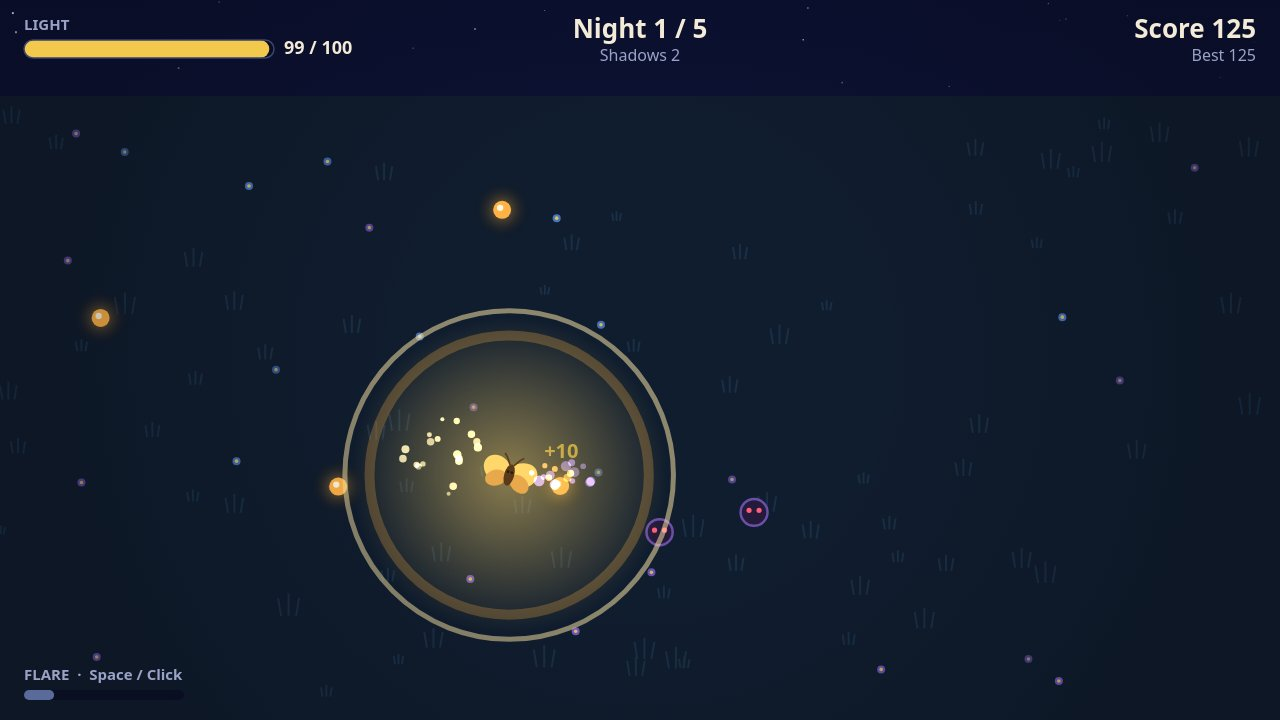
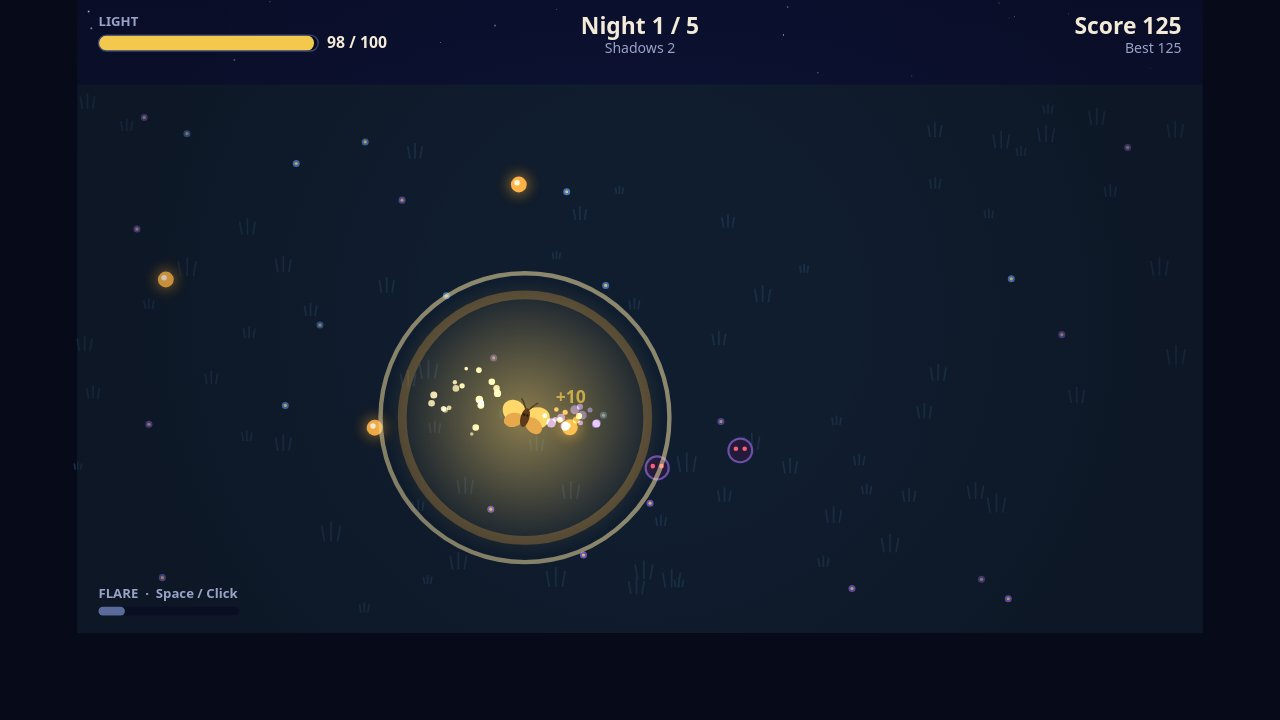
best-game-01: fix round-2 hunt — Thorn ram exploit, orb pool, night stall
Thorn Light no longer kills on a brush: burn needs 0.5s unbroken contact
and only builds when the moth is not steering into the shadow, so ramming
stops being the game (ram autopilot with thorns=1: 12/12 wins -> 0/12,
dies in ~10s with 0 kills; brave/cautious still win 11-12/12). Thorn kills
no longer skip the hit check. Orb pool 28 -> 48 and petals never lose
their slot to a full pool (petals lost 2 -> 0). A night that drags on
deepens: drain x3 and no more ambient embers, so the Night 1 stall
(passive 600s / score 1645) now dies in ~113s at score 280. Also: reset()
now resets emberTimer, orb score text honours Greedy Glow, light label
uses floor, flare bar uses the real cooldown max, win panel counts
moonpetals separately, holding Space flares like holding the mouse.
Screenshots re-rendered from the fixed code (seed 7).

diff --git a/game/src/world.js b/game/src/world.js
@@ -4,7 +4,7 @@
 // without the world knowing about them. Nothing here allocates after createWorld returns.
 
 import {
-  BLESSINGS, EMBER, ENEMY, FIELD, FLARE, LIGHT, MOONPETAL, PLAYER, POOL, SCORE,
+  BLESSINGS, EMBER, ENEMY, FIELD, FLARE, LIGHT, MOONPETAL, NIGHT, PLAYER, POOL, SCORE,
   WAVE_DEFS, WAVES,
 } from './config.js';
 
@@ -33,6 +33,13 @@ const DART_RECOVER = 3;
 /** Thorn Light: seconds between burn ticks on the same enemy (was every frame). */
 const THORN_COOLDOWN = 0.5;
 
+/**
+ * Thorn Light: seconds of unbroken touch before the first burn tick. A brush in
+ * passing does nothing, so flying straight through shadows no longer kills them
+ * for free — the blessing only burns shadows that cling to the moth.
+ */
+const THORN_BURN_DELAY = 0.5;
+
 function dist2(ax, ay, bx, by) {
   const dx = ax - bx;
   const dy = ay - by;
@@ -59,7 +66,7 @@ export function createWorld(random) {
     enemies.push({
       active: false, kind: KIND_WISP, x: 0, y: 0, vx: 0, vy: 0, hp: 1, maxHp: 1,
       radius: 14, speed: 90, wobble: 0, state: DART_CHASE, timer: 0, flash: 0,
-      lx: 0, ly: 0, thornCd: 0,
+      lx: 0, ly: 0, thornCd: 0, burn: 0,
     });
   }
   const orbs = [];
@@ -87,6 +94,7 @@ export function createWorld(random) {
     light: LIGHT.max, maxLight: LIGHT.max,
     score: 0, kills: 0, orbsCollected: 0, time: 0,
     wave: 1, waveState: 'fighting', spawnQueue: [], spawnTimer: 0, emberTimer: EMBER.interval,
+    waveTime: 0, waveLimit: 0, deepened: false, petalsCollected: 0,
     blessings: {}, offered: [], flareCooldown: 0, shake: 0, flareRing: 0, flareRadius: 0,
     dawn: 0, charmUsed: false, victory: false, over: false, lastKillKind: -1,
   };
@@ -172,10 +180,18 @@ export function createWorld(random) {
     e.timer = 0;
     e.flash = 0;
     e.thornCd = 0;
+    e.burn = 0;
   }
 
   function spawnOrb(kind, x, y) {
-    const o = freeOrb();
+    let o = freeOrb();
+    if (!o && kind === KIND_PETAL) {
+      // Moonpetals are progression — only six a game. A full orb pool must never
+      // eat one: reuse an ember instead (embers are plentiful, petals are not).
+      for (let i = 0; i < orbs.length; i += 1) {
+        if (orbs[i].active && orbs[i].kind === KIND_EMBER) { o = orbs[i]; break; }
+      }
+    }
     if (!o) return;
     o.active = true;
     o.kind = kind;
@@ -264,6 +280,9 @@ export function createWorld(random) {
       state.spawnQueue[j] = tmp;
     }
     state.spawnTimer = 0.8;
+    state.waveTime = 0;
+    state.deepened = false;
+    state.waveLimit = NIGHT.baseTime + NIGHT.perShadow * state.spawnQueue.length;
   }
 
   function offerBlessings() {
@@ -313,7 +332,9 @@ export function createWorld(random) {
     state.score = 0;
     state.kills = 0;
     state.orbsCollected = 0;
+    state.petalsCollected = 0;
     state.time = 0;
+    state.emberTimer = EMBER.interval;
     state.blessings = {};
     state.offered = [];
     state.flareCooldown = 0;
@@ -358,7 +379,8 @@ export function createWorld(random) {
     player.flap += dt * (player.moving ? 26 : 12);
 
     if (!harmless && !state.over && !state.victory) {
-      state.light -= (LIGHT.drain + LIGHT.drainPerWave * (state.wave - 1)) * dt;
+      const drainMult = state.deepened ? NIGHT.deepenDrainMult : 1;
+      state.light -= (LIGHT.drain + LIGHT.drainPerWave * (state.wave - 1)) * drainMult * dt;
       if (state.light <= 0) {
         state.light = 0;
         if ((state.blessings.charm ?? 0) > 0 && !state.charmUsed) {
@@ -391,8 +413,8 @@ export function createWorld(random) {
       }
     }
 
-    // Ambient embers drift in while the moth flies.
-    if (state.waveState !== 'blessing') {
+    // Ambient embers drift in while the moth flies — never once the dark deepens.
+    if (state.waveState !== 'blessing' && !state.deepened) {
       state.emberTimer -= dt;
       if (state.emberTimer <= 0) {
         let ambient = 0;
@@ -401,6 +423,16 @@ export function createWorld(random) {
           spawnOrb(KIND_EMBER, 60 + random() * (FIELD.width - 120), 60 + random() * (FIELD.height - 120));
         }
         state.emberTimer = EMBER.interval;
+      }
+    }
+
+    // The night's clock: linger too long and the dark deepens — the drain
+    // triples and no more ambient embers drift in, so stalling starves.
+    if (!harmless && state.waveState === 'fighting' && !state.over && !state.victory) {
+      state.waveTime += dt;
+      if (!state.deepened && state.waveTime >= state.waveLimit) {
+        state.deepened = true;
+        floatText(player.x, player.y - 30, 'The dark deepens!', '#ff5d7a', 28);
       }
     }
 
@@ -461,15 +493,32 @@ export function createWorld(random) {
 
       if (harmless || state.over || state.victory) continue;
       if (d < e.radius + player.radius) {
-        if ((state.blessings.thorns ?? 0) > 0 && e.thornCd <= 0) {
-          e.thornCd = THORN_COOLDOWN;
-          e.hp -= 1;
-          e.flash = 0.15;
-          burst(e.x, e.y, '#ffd76a', 6, 140, 3);
-          if (e.hp <= 0) {
-            killEnemy(e, true);
-            events |= EVENT_KILL;
-            continue;
+        if ((state.blessings.thorns ?? 0) > 0) {
+          // Thorn Light burns only shadows that catch the moth. Steering into a
+          // shadow is the moth's attack, not the shadow's, so no burn builds
+          // while the moth charges — that is what stops ramming from being
+          // the game. A shadow that clings to a moth standing its ground, or
+          // fleeing, still burns.
+          const nx = -dx / d;
+          const ny = -dy / d;
+          const toward = dir.x * nx + dir.y * ny;
+          if (toward <= 0) {
+            e.burn += dt;
+            if (e.burn >= THORN_BURN_DELAY && e.thornCd <= 0) {
+              e.thornCd = THORN_COOLDOWN;
+              e.burn = 0;
+              e.hp -= 1;
+              e.flash = 0.15;
+              burst(e.x, e.y, '#ffd76a', 6, 140, 3);
+              if (e.hp <= 0) {
+                killEnemy(e, true);
+                events |= EVENT_KILL;
+                // No `continue` here: the touch that lit the shadow still lands
+                // below, so a thorn kill is never a free kill.
+              }
+            }
+          } else {
+            e.burn = 0;
           }
         }
         if (player.invulnerable === 0) {
@@ -494,6 +543,9 @@ export function createWorld(random) {
             }
           }
         }
+      } else {
+        // Out of touch the burn meter cools: only unbroken contact ignites.
+        e.burn = 0;
       }
     }
 
@@ -520,10 +572,11 @@ export function createWorld(random) {
         o.active = false;
         state.orbsCollected += 1;
         const isPetal = o.kind === KIND_PETAL;
+        if (isPetal) state.petalsCollected += 1;
         const def = isPetal ? MOONPETAL : EMBER;
         state.light = Math.min(state.maxLight, state.light + def.light);
         addScore(def.score);
-        floatText(o.x, o.y - 12, `+${def.score}`, isPetal ? '#c9b8ff' : '#f2c94c', isPetal ? 24 : 18);
+        floatText(o.x, o.y - 12, `+${Math.round(def.score * (1 + 0.5 * (state.blessings.greed ?? 0)))}`, isPetal ? '#c9b8ff' : '#f2c94c', isPetal ? 24 : 18);
         burst(o.x, o.y, isPetal ? '#c9b8ff' : '#ffb347', isPetal ? 14 : 8, 130, 3);
         events |= isPetal ? EVENT_PETAL : EVENT_ORB;
       }

diff --git a/game/src/render.js b/game/src/render.js
@@ -5,7 +5,7 @@
 // the screen grow. All animation reads the world's own time, never the wall clock, so a
 // staged scene always paints the same frame.
 
-import { BLESSINGS, FIELD, FONT, LIGHT, PALETTE, WAVES } from './config.js';
+import { BLESSINGS, FIELD, FLARE, FONT, LIGHT, PALETTE, WAVES } from './config.js';
 import { KIND_BRUTE, KIND_DART, KIND_EMBER, KIND_PETAL, KIND_WISP } from './world.js';
 
 export const SCREEN_TITLE = 'title';
@@ -361,7 +361,7 @@ export function createRenderer(canvas) {
     context.lineWidth = 1.5;
     roundRect(barX, barY, barW, 18, 9);
     context.stroke();
-    text(lightLabel(`${Math.ceil(state.light)} / ${state.maxLight}`), barX + barW + 10, 40, 18, PALETTE.text, 'left', '700');
+    text(lightLabel(`${Math.floor(state.light)} / ${state.maxLight}`), barX + barW + 10, 40, 18, PALETTE.text, 'left', '700');
     // Wave and shadows, top centre.
     text(waveLabel(`${state.wave} / ${WAVES}`), FIELD.width / 2, 18, 26, PALETTE.text, 'center', '700');
     let shadows = state.spawnQueue.length;
@@ -372,7 +372,8 @@ export function createRenderer(canvas) {
     text(`Best ${state.best ?? 0}`, FIELD.width - 24, 48, 16, PALETTE.muted, 'right');
     // Flare cooldown, bottom left.
     text('FLARE  ·  Space / Click', 24, FIELD.height - 52, 15, PALETTE.muted, 'left', '700');
-    const cdFrac = 1 - state.flareCooldown / 1.15;
+    const cdMax = FLARE.cooldown * (1 - FLARE.cooldownPerBlessing * (state.blessings.quick ?? 0));
+    const cdFrac = 1 - state.flareCooldown / cdMax;
     context.fillStyle = '#0a0e22';
     roundRect(24, FIELD.height - 30, 160, 10, 5);
     context.fill();
@@ -507,7 +508,7 @@ export function createRenderer(canvas) {
     } else if (screen === SCREEN_OVER) {
       drawPanel('The Light Fades', [`Score ${state.score}`, `Best ${best}`, `Reached Night ${state.wave}  ·  ${state.kills} shadows scattered`], 'Press Space or click to fly again');
     } else if (screen === SCREEN_WIN) {
-      drawPanel('Dawn Breaks', [`Score ${state.score}`, `Best ${best}`, `All ${WAVES} nights survived`, `${state.kills} shadows scattered  ·  ${state.orbsCollected} embers gathered`], 'Press Space or click to fly again');
+      drawPanel('Dawn Breaks', [`Score ${state.score}`, `Best ${best}`, `All ${WAVES} nights survived`, `${state.kills} shadows scattered  ·  ${state.orbsCollected} orbs gathered, ${state.petalsCollected ?? 0} moonpetals`], 'Press Space or click to fly again');
     } else if (screen === SCREEN_PLAY && state.time < 6 && state.wave === 1) {
       text('Gather the glowing embers — your light is draining', FIELD.width / 2, 120, 20, PALETTE.text, 'center');
     }

diff --git a/game/src/input.js b/game/src/input.js
@@ -28,6 +28,7 @@ export function createInput(target) {
   let pointerX = 0;
   let pointerY = 0;
   let pointerDown = false;
+  let confirmHeld = false;
 
   window.addEventListener('keydown', (event) => {
     if (LEFT.has(event.code)) left = true;
@@ -35,6 +36,7 @@ export function createInput(target) {
     else if (UP.has(event.code)) up = true;
     else if (DOWN.has(event.code)) down = true;
     else if (CONFIRM.has(event.code)) {
+      confirmHeld = true;
       if (!event.repeat) actions |= ACTION_CONFIRM;
     } else if (PAUSE.has(event.code)) {
       if (!event.repeat) actions |= ACTION_PAUSE;
@@ -50,6 +52,7 @@ export function createInput(target) {
     else if (RIGHT.has(event.code)) right = false;
     else if (UP.has(event.code)) up = false;
     else if (DOWN.has(event.code)) down = false;
+    else if (CONFIRM.has(event.code)) confirmHeld = false;
   });
   // A key released while the tab is hidden never sends keyup: let go of everything on blur.
   window.addEventListener('blur', () => {
@@ -57,6 +60,7 @@ export function createInput(target) {
     right = false;
     up = false;
     down = false;
+    confirmHeld = false;
   });
   target.addEventListener('pointermove', (event) => {
     const rect = target.getBoundingClientRect();
@@ -88,6 +92,10 @@ export function createInput(target) {
     /** Last pointer position in canvas pixels, and whether the button is held. */
     pointer() {
       return { x: pointerX, y: pointerY, down: pointerDown };
+    },
+    /** Whether a flare is being held down: mouse button or Space/Enter. */
+    flareHeld() {
+      return pointerDown || confirmHeld;
     },
   };
 }

diff --git a/game/src/config.js b/game/src/config.js
@@ -35,6 +35,15 @@ export const LIGHT = {
   charmRestore: 50,
 };
 
+/** A night may not be stalled forever: after its time the dark deepens. */
+export const NIGHT = {
+  /** Seconds a night may last before the dark deepens: base plus per shadow. */
+  baseTime: 75,
+  perShadow: 3,
+  /** Light drain multiplier once the dark has deepened. */
+  deepenDrainMult: 3,
+};
+
 export const FLARE = {
   radius: 150,
   radiusPerBlessing: 0.25,
@@ -81,7 +90,7 @@ export const SCORE = {
 };
 
 /** How many of each thing can exist at once; pools are allocated once, at boot. */
-export const POOL = { enemies: 48, orbs: 28, particles: 240, texts: 28 };
+export const POOL = { enemies: 48, orbs: 48, particles: 240, texts: 28 };
 
 /** Blessings offered between waves. id, name, one-line promise, max stacks. */
 export const BLESSINGS = [
@@ -90,7 +99,7 @@ export const BLESSINGS = [
   { id: 'heart', name: 'Bright Heart', desc: '+25 max light, refill 25', max: 3 },
   { id: 'magnet', name: 'Ember Magnet', desc: 'Embers drift to you', max: 2 },
   { id: 'quick', name: 'Quick Flare', desc: 'Flare recharges 25% faster', max: 3 },
-  { id: 'thorns', name: 'Thorn Light', desc: 'Shadows burn on touch', max: 2 },
+  { id: 'thorns', name: 'Thorn Light', desc: 'Shadows that catch you burn', max: 2 },
   { id: 'charm', name: 'Second Dawn', desc: 'Once: survive death at 50 light', max: 1 },
   { id: 'greed', name: 'Greedy Glow', desc: '+50% score from everything', max: 2 },
 ];

diff --git a/game/src/main.js b/game/src/main.js
@@ -149,8 +149,9 @@ function runGame() {
     // A press only flares on the frame's first step, and only when the game was already in
     // play when it happened: the click that starts the game must not spend light on a flare.
     const pressed = firstStep && wasPlaying && (actions & (ACTION_FLARE | ACTION_CONFIRM)) !== 0;
-    // A held pointer keeps flaring whenever the burst is ready.
-    const held = input.pointer().down && wasPlaying;
+    // A held pointer keeps flaring whenever the burst is ready; holding Space
+    // does the same for keyboard players.
+    const held = input.flareHeld() && wasPlaying;
     const events = world.step(STEP, dir, pressed || held, false);
     if (events & EVENT_ORB) audio.pickup();
     if (events & EVENT_PETAL) audio.petal();
@@ -158,7 +159,7 @@ function runGame() {
     if (events & EVENT_KILL) audio.kill();
     if (events & EVENT_HIT) {
       audio.hit();
-      announce(`Hit. Light ${Math.ceil(world.state.light)}.`);
+      announce(`Hit. Light ${Math.floor(world.state.light)}.`);
     }
     if (events & EVENT_CHARM) {
       audio.charm();
